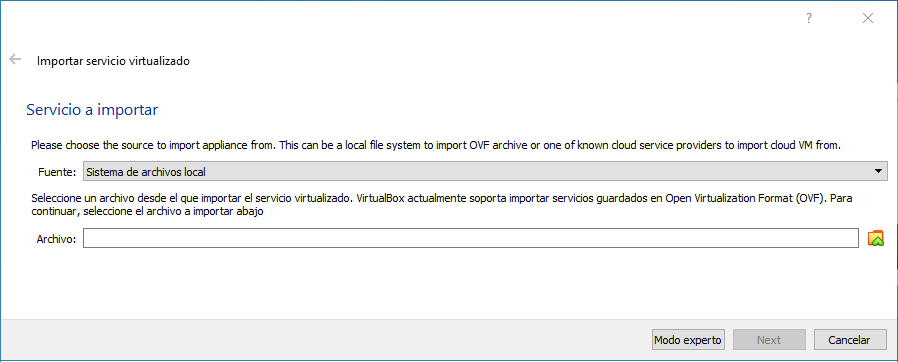
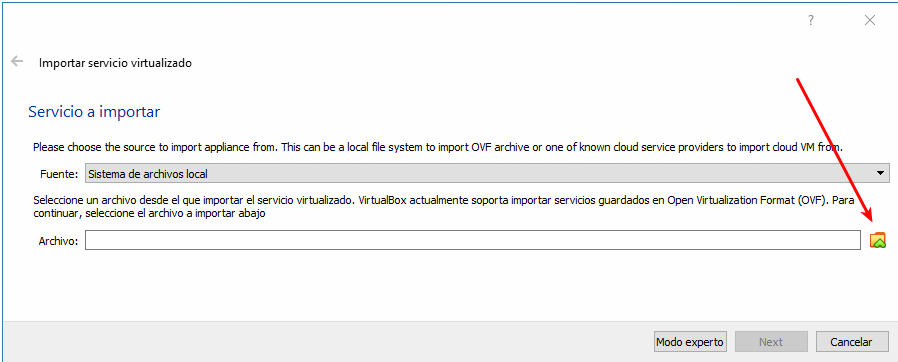
added minor changes

diff --git a/_posts/2021-07-11-Manual-Maquina-Virtual-Linux-Geologia.md b/_posts/2021-07-11-Manual-Maquina-Virtual-Linux-Geologia.md
@@ -1,14 +1,15 @@
 ---
 layout: post
-title: Manual Maquina Virtual Linux - 2021
-categories: bioinformatics
+title: (Geología) Manual Maquina Virtual Linux - 2021
+categories: geology
 author: Rogelio Prieto Alvarado
-date: July 25, 2021
+date: July 11, 2021
 ---
 
-![](https://raw.githubusercontent.com/rogelioprieto/linux-tips/master/_posts/verano2021-images/Escuela-de-Verano2021-header.png)
+![](https://raw.githubusercontent.com/rogelioprieto/linux-tips/master/_posts/mv-rhyolite-MELTS-images/Escuela-de-Verano2021-header.png)
 
-En los cursos de la «Tercera Escuela de Verano 2020», se utilizará una [máquina virtual](https://www.redhat.com/es/topics/virtualization/what-is-a-virtual-machine). De esta manera podrás ejecutar Linux desde tu computadora aunque esta cuente con otro sistema operativo instalado. No se afectará el funcionamiento del sistema operativo actual.
+Se desea utilizar el software rhyolite-MELTS v1.0.x que está disponible para ejecutarse en Linux.
+Para ello, se utilizará una [máquina virtual](https://www.redhat.com/es/topics/virtualization/what-is-a-virtual-machine). De esta manera podrás ejecutar Linux desde tu computadora aunque esta cuente con otro sistema operativo instalado. No se afectará el funcionamiento del sistema operativo actual.
 
 Utilizaremos el software `Virtual Box` de Oracle para ejecutar desde ahí la máquina virtual que utilizaremos. Para realizar la instalación y configuración, ejecuta los siguiente pasos:
 
@@ -28,7 +29,7 @@ Para Linux
 
 Sigue los pasos solicitados por el instalador.
 
-![](https://raw.githubusercontent.com/rogelioprieto/linux-tips/master/_posts/verano2021-images/00.png)
+![](https://raw.githubusercontent.com/rogelioprieto/linux-tips/master/_posts/mv-rhyolite-MELTS-images/00.png)
 
 
 
@@ -36,26 +37,33 @@ Sigue los pasos solicitados por el instalador.
 **Paso 3.** Descargar la máquina virtual (archivo `.OVA`) que el instructor del curso ha preparado. Use este enlace:
 
 
-<https://bit.ly/VMUbuntu1804>
+<https://drive.google.com/file/d/1G0tday87DnnS5KiKeeT-hOcR2N5zsW5z/view?usp=sharing>
 
 **Paso 4.** Ejecutar el software `Oracle VM VirtualBox`.
 	a) Si usas Windows, ve a menú Inicio y busca el programa, le das clic para ejecutarlo.
     b) Si usas Mac OS ejecuta la aplicación `Launchpad`, desde ahí busca y da clic en `Oracle VM VirtualBox`.
     c) Si usas Linux, busca la aplicación en el menú de aplicaciones y ejecuta `Oracle VM VirtualBox`.
 
-![](https://raw.githubusercontent.com/rogelioprieto/linux-tips/master/_posts/verano2020-images/01.png)
+![](https://raw.githubusercontent.com/rogelioprieto/linux-tips/master/_posts/mv-rhyolite-MELTS-images/01.png)
 
 **Paso 5.** Importar la máquina virtual (el archivo `.OVA` que ya fue descargado).
 
-5.1 Elija el menú `Archivo`, la opción `Importar servicio virtualizado`. ![](https://raw.githubusercontent.com/rogelioprieto/linux-tips/master/_posts/verano2020-images/02.png)
-5.2 Aparecerá una ventana, de clic en el ícono `carpeta` y ubique el archivo que descargó, se llama `Ubuntu 18.04 Desktop.ova`. Dé clic en `Siguiente`. ![](https://raw.githubusercontent.com/rogelioprieto/linux-tips/master/_posts/verano2020-images/04.png) 
+5.1 Elija el menú `Archivo`, la opción `Importar servicio virtualizado`. ![](https://raw.githubusercontent.com/rogelioprieto/linux-tips/master/_posts/mv-rhyolite-MELTS-images/02.png)
 
-![](https://raw.githubusercontent.com/rogelioprieto/linux-tips/master/_posts/verano2020-images/03.png)
+5.2 Aparecerá una ventana, de clic en el ícono `carpeta` y ubique el archivo que descargó, se llama `Ubuntu 18.04 Desktop.ova`. Dé clic en `Siguiente`. 
+![](https://raw.githubusercontent.com/rogelioprieto/linux-tips/master/_posts/mv-rhyolite-MELTS-images/03.png) 
+
+![](https://raw.githubusercontent.com/rogelioprieto/linux-tips/master/_posts/mv-rhyolite-MELTS-images/04.png) 
+
+![](https://raw.githubusercontent.com/rogelioprieto/linux-tips/master/_posts/mv-rhyolite-MELTS-images/05.png)
+
 5.3 Aparecerá la ventana `Preferencias del servicio`. Dé clic en `Importar`.  
 5.4 Aparecerá una ventana emergente, espere a que termine el proceso de importación.  
-![](https://raw.githubusercontent.com/rogelioprieto/linux-tips/master/_posts/verano2020-images/05.png)
+![](https://raw.githubusercontent.com/rogelioprieto/linux-tips/master/_posts/mv-rhyolite-MELTS-images/06.png)
 5.5 Después de terminar el proceso de importación, la máquina virtual estará disponible para usarse.  
-![](https://raw.githubusercontent.com/rogelioprieto/linux-tips/master/_posts/verano2020-images/06.jpeg)  
+![](https://raw.githubusercontent.com/rogelioprieto/linux-tips/master/_posts/mv-rhyolite-MELTS-images/07.png)  
 
+**Paso 6.** Ejecutar la máquina virtual. Selecciona la máquina `Ubuntu MATE 20.04` Da clic en el botón `Iniciar`.
+![](https://raw.githubusercontent.com/rogelioprieto/linux-tips/master/_posts/mv-rhyolite-MELTS-images/08.png)  
 
 ¡Felicidades, te esperamos en el inicio del curso!. Revisa el [calendario](https://fic.uas.edu.mx/escueladeverano/). La primera sesión será el lunes 26/julio/2021.
